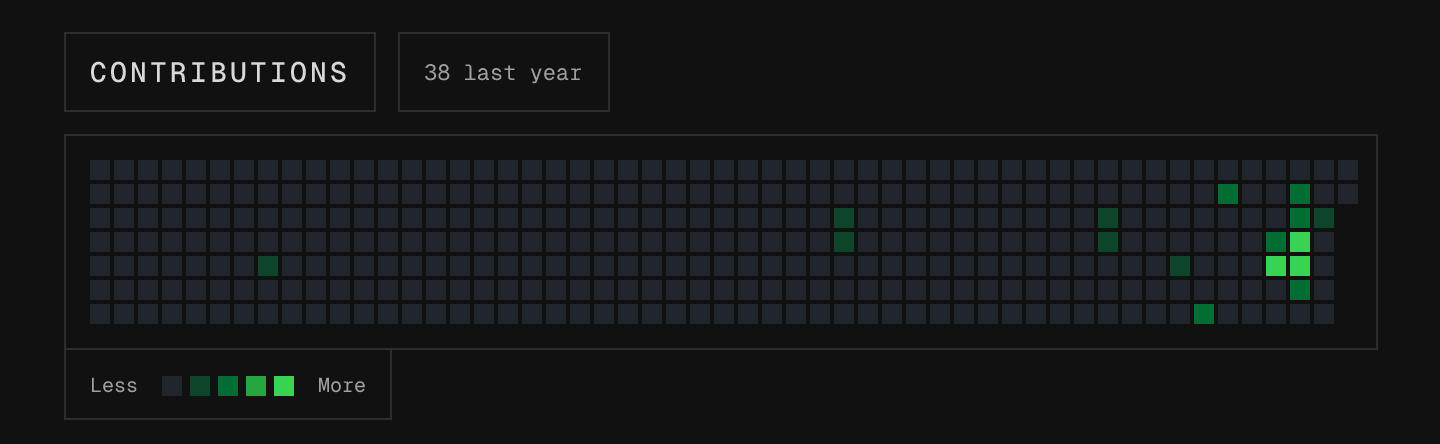
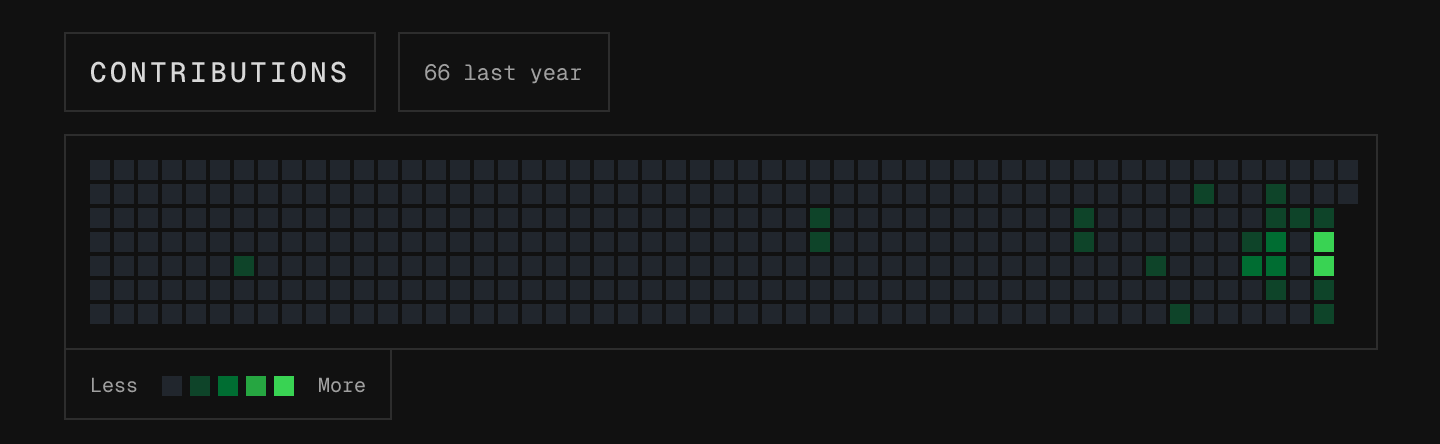
chore: regenerate profile assets

diff --git a/README.md b/README.md
@@ -15,6 +15,10 @@
 </div>
 
 <div align="center">
+  <img src="./generated/contributions.svg" width="720" alt="GitHub contributions" />
+</div>
+
+<div align="center">
   <img src="./generated/writing-header.svg" width="720" alt="Writing" />
 </div>
 
